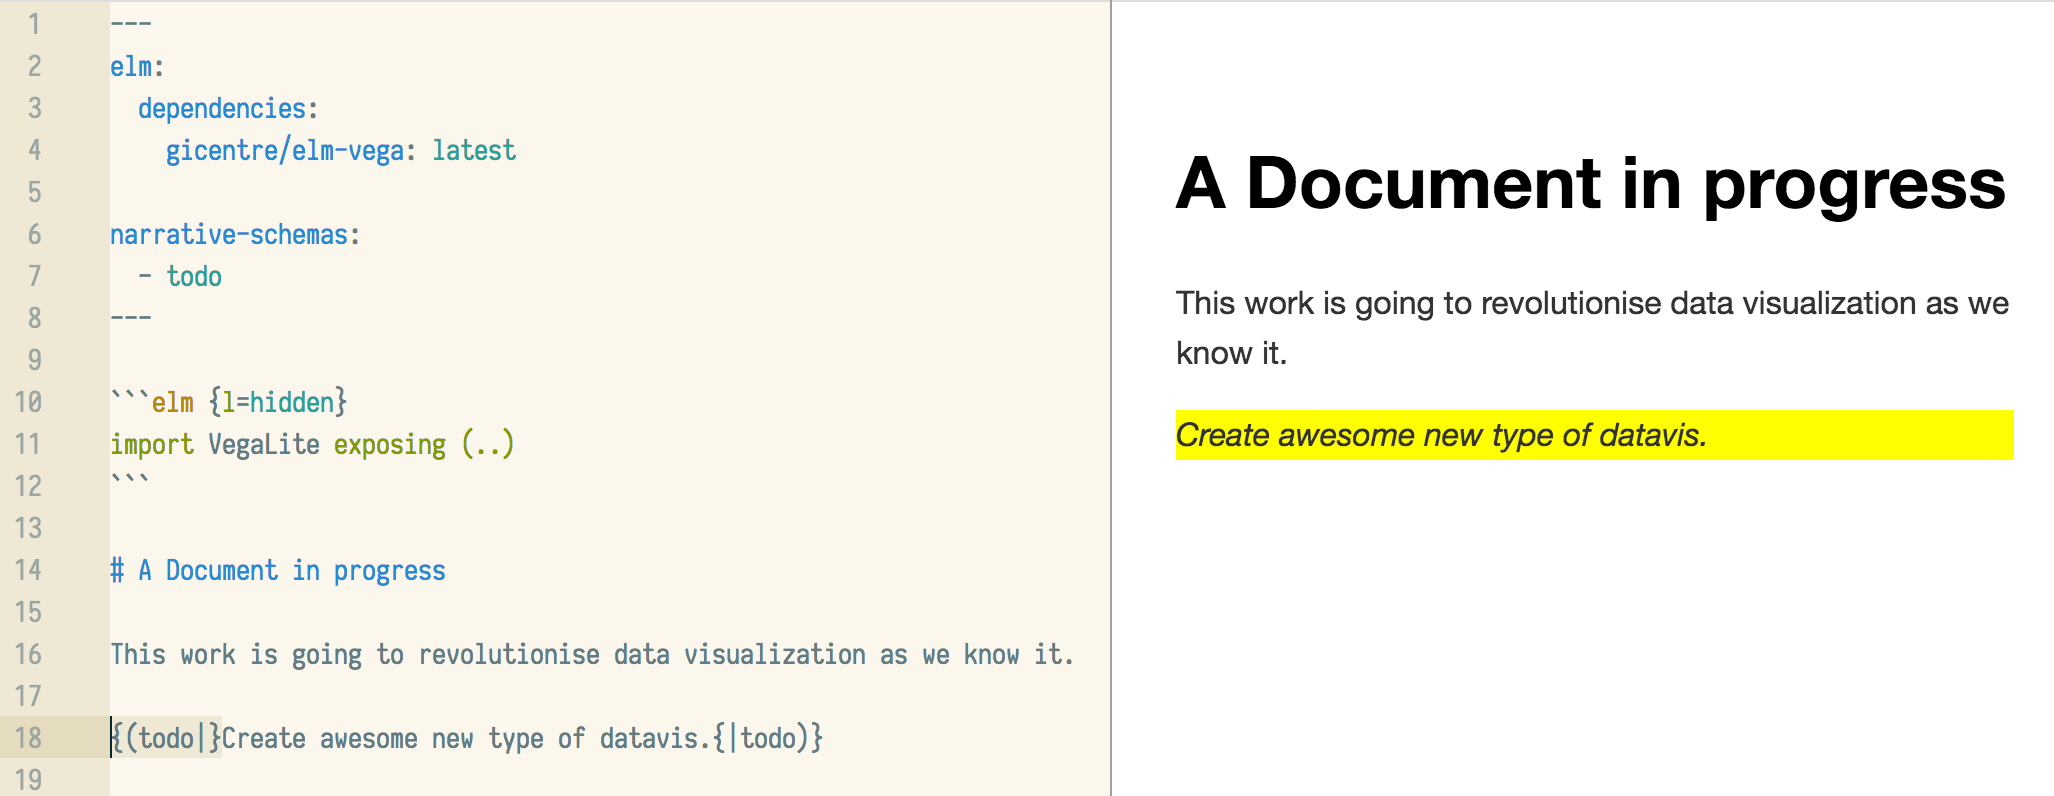
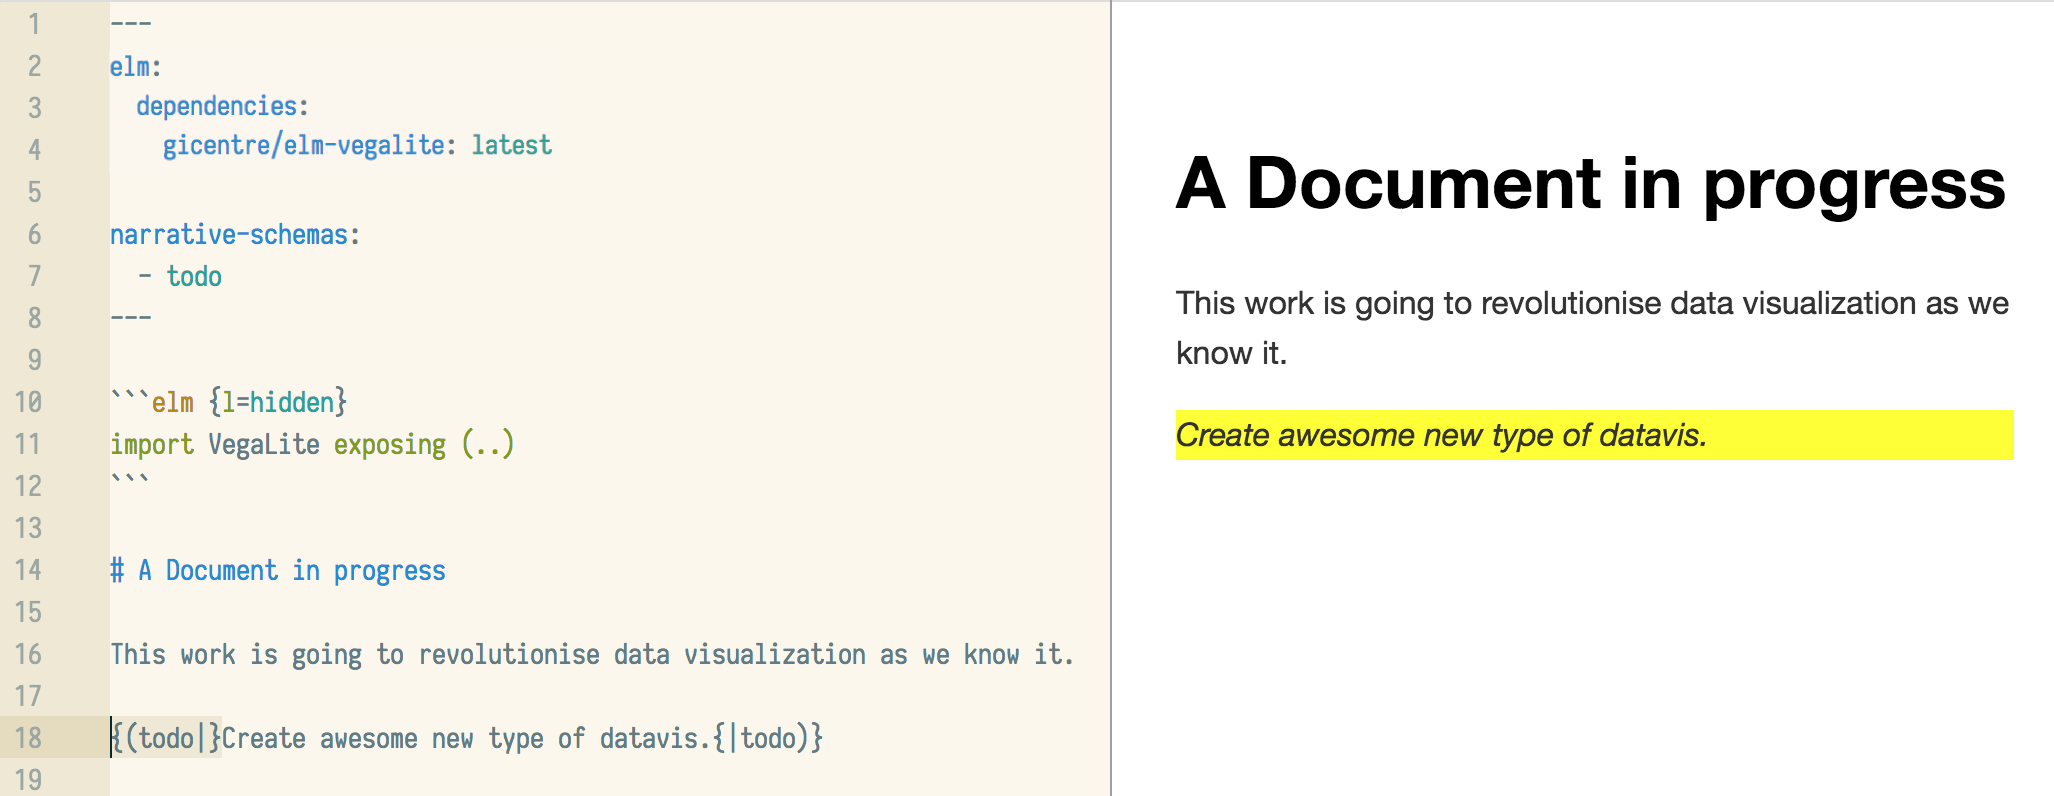
Introduction to litvis updated for elm 0.19 / elm-vegalite

diff --git a/documents/tutorials/introduction/intro1.md b/documents/tutorials/introduction/intro1.md
@@ -32,7 +32,7 @@ Create a new document called [`helloLitvis.md`](helloLitvisV1.md) and copy the f
 ---
 elm:
   dependencies:
-    gicentre/elm-vega: "3.0"
+    gicentre/elm-vegalite: latest
 ---
 
 ```elm {l=hidden}
@@ -55,7 +55,7 @@ helloLitvis =
                 << position X
                     [ pName "language"
                     , pMType Nominal
-                    , pSort [ soByField "rating" Mean, Descending ]
+                    , pSort [ soByField "rating" opMean, soDescending ]
                     ]
                 << position Y [ pName "rating", pMType Quantitative ]
     in
@@ -73,11 +73,11 @@ The top of the document is the _header_ fenced with a pair of `---` lines:
 ---
 elm:
   dependencies:
-    gicentre/elm-vega: "3.0"
+    gicentre/elm-vegalite: latest
 ---
 ```
 
-We will be using the [elm-vega 3.0](https://package.elm-lang.org/packages/gicentre/elm-vega/3.0.1) package to provide visualization specifications in our litvis documents, so this header just ensures that the relevant module is installed and ready to use.
+We will be using the [elm-vegalite](https://package.elm-lang.org/packages/gicentre/elm-vegalite/latest) package to provide visualization specifications in our litvis documents, so this header just ensures that the relevant module is installed and ready to use.
 
 Litvis documents allow you to write and code directly within them but also to control whether or not the code should be displayed in the formatted output.
 The code block
@@ -89,13 +89,13 @@ import VegaLite exposing (..)
 ````
 
 provides a fenced block of code between a pair of ` ``` ` lines where `elm` indicates the code will be written in the [elm language](http://elm-lang.org) and the `{l=hidden}` prevents this particular block of code from being displayed in the formatted output pane.
-The code itself just imports the module `VegaLite` from [elm-vega 3.0](https://package.elm-lang.org/packages/gicentre/elm-vega/3.0.1) so we can use it later on in the litvis document.
+The code itself just imports the module `VegaLite` from [elm-vegalite](https://package.elm-lang.org/packages/gicentre/elm-vegalite/latest/) so we can use it later on in the litvis document.
 
 The header and hidden import code block are commonly used at the start of litvis documents to set things up nicely, so can usually just be copied from from one document to the next.
 
 Below the header the remains of the document can mix standard markdown text (e.g. _The top 5 programming languages..._) with fenced code blocks.
 In our first example, a function we've called `helloLitvis` creates a visualization specification that defines a simple data table comprising two columns (`language` and `rating`) each of 5 rows, and then encodes the data in the `language` column as horizontal (`X`) position and the `rating` value as vertical (`Y`) position.
-Additionally, `language` data are sorted by `rating` from high to low before positioning them (using the [pSort function](http://package.elm-lang.org/packages/gicentre/elm-vega/2.3.0/VegaLite#pSort)) before rendering the data as a collection of `bar` marks to produce a simple bar chart.
+Additionally, `language` data are sorted by `rating` from high to low before positioning them (using the [pSort function](https://package.elm-lang.org/packages/gicentre/elm-vegalite/latest/VegaLite#pSort)) before rendering the data as a collection of `bar` marks to produce a simple bar chart.
 
 You can learn more about the elm language and specifying visualizations in the other [litvis tutorials](../README.md), but here we wil focus on constructing litvis documents.
 
@@ -168,7 +168,7 @@ helloLitvis =
     let
         enc =
             encoding
-                << position X [ pName "language", pMType Nominal, pSort [ soByField "rating" Mean, Descending ] ]
+                << position X [ pName "language", pMType Nominal, pSort [ soByField "rating" opMean, soDescending ] ]
                 << position Y [ pName "rating", pMType Quantitative ]
     in
     toVegaLite [ data [], bar [], enc [] ]

diff --git a/documents/tutorials/introduction/incomeScatterplots.md b/documents/tutorials/introduction/incomeScatterplots.md
@@ -15,7 +15,7 @@ config =
     configure
         << configuration (coAxis [ axcoTitleFont font, axcoLabelFont font, axcoGrid False ])
         << configuration (coView [ vicoStroke Nothing, vicoWidth 300, vicoHeight 300 ])
-        << configuration (coText [ maAlign AlignRight, maFontSize 7, maAngle 20, maDx -4 ])
+        << configuration (coText [ maAlign raRight, maFontSize 7, maAngle 20, maDx -4 ])
 ```
 
 ```elm {l=hidden}
@@ -52,7 +52,7 @@ scatter =
         [ config []
         , data
         , line
-            [ maInterpolate Monotone
+            [ maInterpolate miMonotone
             , maPoint (pmMarker [ maFill "black", maStroke "white", maStrokeWidth 1.5 ])
             ]
         , enc []
@@ -76,7 +76,7 @@ scatter =
         lineSpec =
             asSpec
                 [ line
-                    [ maInterpolate Monotone
+                    [ maInterpolate miMonotone
                     , maPoint (pmMarker [ maFill "black", maStroke "white", maStrokeWidth 1.5 ])
                     ]
                 , enc []
@@ -97,7 +97,7 @@ scatter =
         lineSpec =
             asSpec
                 [ line
-                    [ maInterpolate Monotone
+                    [ maInterpolate miMonotone
                     , maPoint (pmMarker [ maFill "black", maStroke "white", maStrokeWidth 1.5 ])
                     ]
                 , enc []
@@ -107,7 +107,7 @@ scatter =
             asSpec [ textMark [], labelEnc [], sel [] ]
 
         sel =
-            selection << select "view" Interval [ BindScales ]
+            selection << select "view" seInterval [ seBindScales ]
     in
     toVegaLite [ config [], data, layer [ lineSpec, labelSpec ] ]
 ```

diff --git a/documents/tutorials/introduction/intro2.md b/documents/tutorials/introduction/intro2.md
@@ -29,7 +29,7 @@ We can start, as we did in the previous chapter, by creating litvis document wit
 ---
 elm:
   dependencies:
-    gicentre/elm-vega: "3.0"
+    gicentre/elm-vegalite: latest
 ---
 
 # Household Income
@@ -66,7 +66,7 @@ This should generate formatted output similar to the following where you can exp
 ![line chart output](images/linecharts.png)
 
 {(question |}
-If you are feeling confident with [elm-vega 3.0](https://package.elm-lang.org/packages/gicentre/elm-vega/3.0.1) you can try further experiments with line charts by editing `incomeLineCharts.md`
+If you are feeling confident with [elm-vegalite](https://package.elm-lang.org/packages/gicentre/elm-vegalite/latest/) you can try further experiments with line charts by editing `incomeLineCharts.md`
 {|question )}
 
 Notice that the header of this new file doen't have the usual `elm dependencies` lines, nor does it import anything or create a `data` function.

diff --git a/documents/tutorials/introduction/intro3.md b/documents/tutorials/introduction/intro3.md
@@ -2,7 +2,7 @@
 id: "litvis"
 elm:
   dependencies:
-    gicentre/elm-vega: "3.0"
+    gicentre/elm-vegalite: latest
 
 narrative-schemas:
   - ../schemas/tutorial
@@ -75,7 +75,7 @@ To see the schema in action, copy the schema above into a file `todo.yaml` then 
 ---
 elm:
   dependencies:
-    gicentre/elm-vega: "3.0"
+    gicentre/elm-vegalite: latest
 
 narrative-schemas:
   - todo
@@ -172,7 +172,7 @@ Below is an example litvis document that conforms to this narrative schema:
 ---
 elm:
   dependencies:
-    gicentre/elm-vega: "3.0"
+    gicentre/elm-vegalite: latest
 
 narrative-schemas:
   - newIdiom

diff --git a/documents/tutorials/introduction/helloLitvisV3.md b/documents/tutorials/introduction/helloLitvisV3.md
@@ -1,7 +1,7 @@
 ---
 elm:
   dependencies:
-    gicentre/elm-vega: "3.0"
+    gicentre/elm-vegalite: latest
 ---
 
 ```elm {l=hidden}
@@ -25,7 +25,7 @@ helloLitvis =
     let
         enc =
             encoding
-                << position X [ pName "language", pMType Nominal, pSort [ soByField "rating" Mean, Descending ] ]
+                << position X [ pName "language", pMType Nominal, pSort [ soByField "rating" opMean, soDescending ] ]
                 << position Y [ pName "rating", pMType Quantitative ]
     in
     toVegaLite [ data [], bar [], enc [] ]

diff --git a/documents/tutorials/introduction/helloLitvisV4.md b/documents/tutorials/introduction/helloLitvisV4.md
@@ -1,7 +1,7 @@
 ---
 elm:
   dependencies:
-    gicentre/elm-vega: "3.0"
+    gicentre/elm-vegalite: latest
 ---
 
 ```elm {l=hidden}
@@ -23,7 +23,7 @@ helloLitvis =
     let
         enc =
             encoding
-                << position X [ pName "language", pMType Nominal, pSort [ soByField "rating" Mean, Descending ] ]
+                << position X [ pName "language", pMType Nominal, pSort [ soByField "rating" opMean, soDescending ] ]
                 << position Y [ pName "rating", pMType Quantitative ]
     in
     toVegaLite [ data [], bar [], enc [] ]

diff --git a/documents/tutorials/introduction/helloLitvisV1.md b/documents/tutorials/introduction/helloLitvisV1.md
@@ -1,7 +1,7 @@
 ---
 elm:
   dependencies:
-    gicentre/elm-vega: "3.0"
+    gicentre/elm-vegalite: latest
 ---
 
 ```elm {l=hidden}
@@ -26,7 +26,7 @@ helloLitvis =
                 << position X
                     [ pName "language"
                     , pMType Nominal
-                    , pSort [ soByField "rating" Mean, Descending ]
+                    , pSort [ soByField "rating" opMean, soDescending ]
                     ]
                 << position Y [ pName "rating", pMType Quantitative ]
     in

diff --git a/documents/tutorials/introduction/helloLitvisV2.md b/documents/tutorials/introduction/helloLitvisV2.md
@@ -1,7 +1,7 @@
 ---
 elm:
   dependencies:
-    gicentre/elm-vega: "3.0"
+    gicentre/elm-vegalite: latest
 ---
 
 ```elm {l=hidden}
@@ -26,7 +26,7 @@ helloLitvis =
                 << position X
                     [ pName "language"
                     , pMType Nominal
-                    , pSort [ soByField "rating" Mean, Descending ]
+                    , pSort [ soByField "rating" opMean, soDescending ]
                     ]
                 << position Y [ pName "rating", pMType Quantitative ]
     in

diff --git a/documents/tutorials/introduction/incomeLineCharts.md b/documents/tutorials/introduction/incomeLineCharts.md
@@ -77,8 +77,8 @@ combinedLinechart =
 
         res =
             resolve
-                << resolution (reAxis [ ( ChY, Independent ) ])
-                << resolution (reScale [ ( ChY, Independent ) ])
+                << resolution (reAxis [ ( chY, reIndependent ) ])
+                << resolution (reScale [ ( chY, reIndependent ) ])
     in
     toVegaLite
         [ width 400

diff --git a/documents/tutorials/introduction/newIdiom.md b/documents/tutorials/introduction/newIdiom.md
@@ -1,7 +1,7 @@
 ---
 elm:
   dependencies:
-    gicentre/elm-vega: "3.0"
+    gicentre/elm-vegalite: latest
 
 narrative-schemas:
   - newIdiom

diff --git a/documents/tutorials/introduction/incomplete.md b/documents/tutorials/introduction/incomplete.md
@@ -1,7 +1,7 @@
 ---
 elm:
   dependencies:
-    gicentre/elm-vega: "3.0"
+    gicentre/elm-vegalite: latest
 
 narrative-schemas:
   - todo

diff --git a/documents/tutorials/introduction/incomeRoot.md b/documents/tutorials/introduction/incomeRoot.md
@@ -1,7 +1,7 @@
 ---
 elm:
   dependencies:
-    gicentre/elm-vega: "3.0"
+    gicentre/elm-vegalite: latest
 ---
 
 # Household Income
